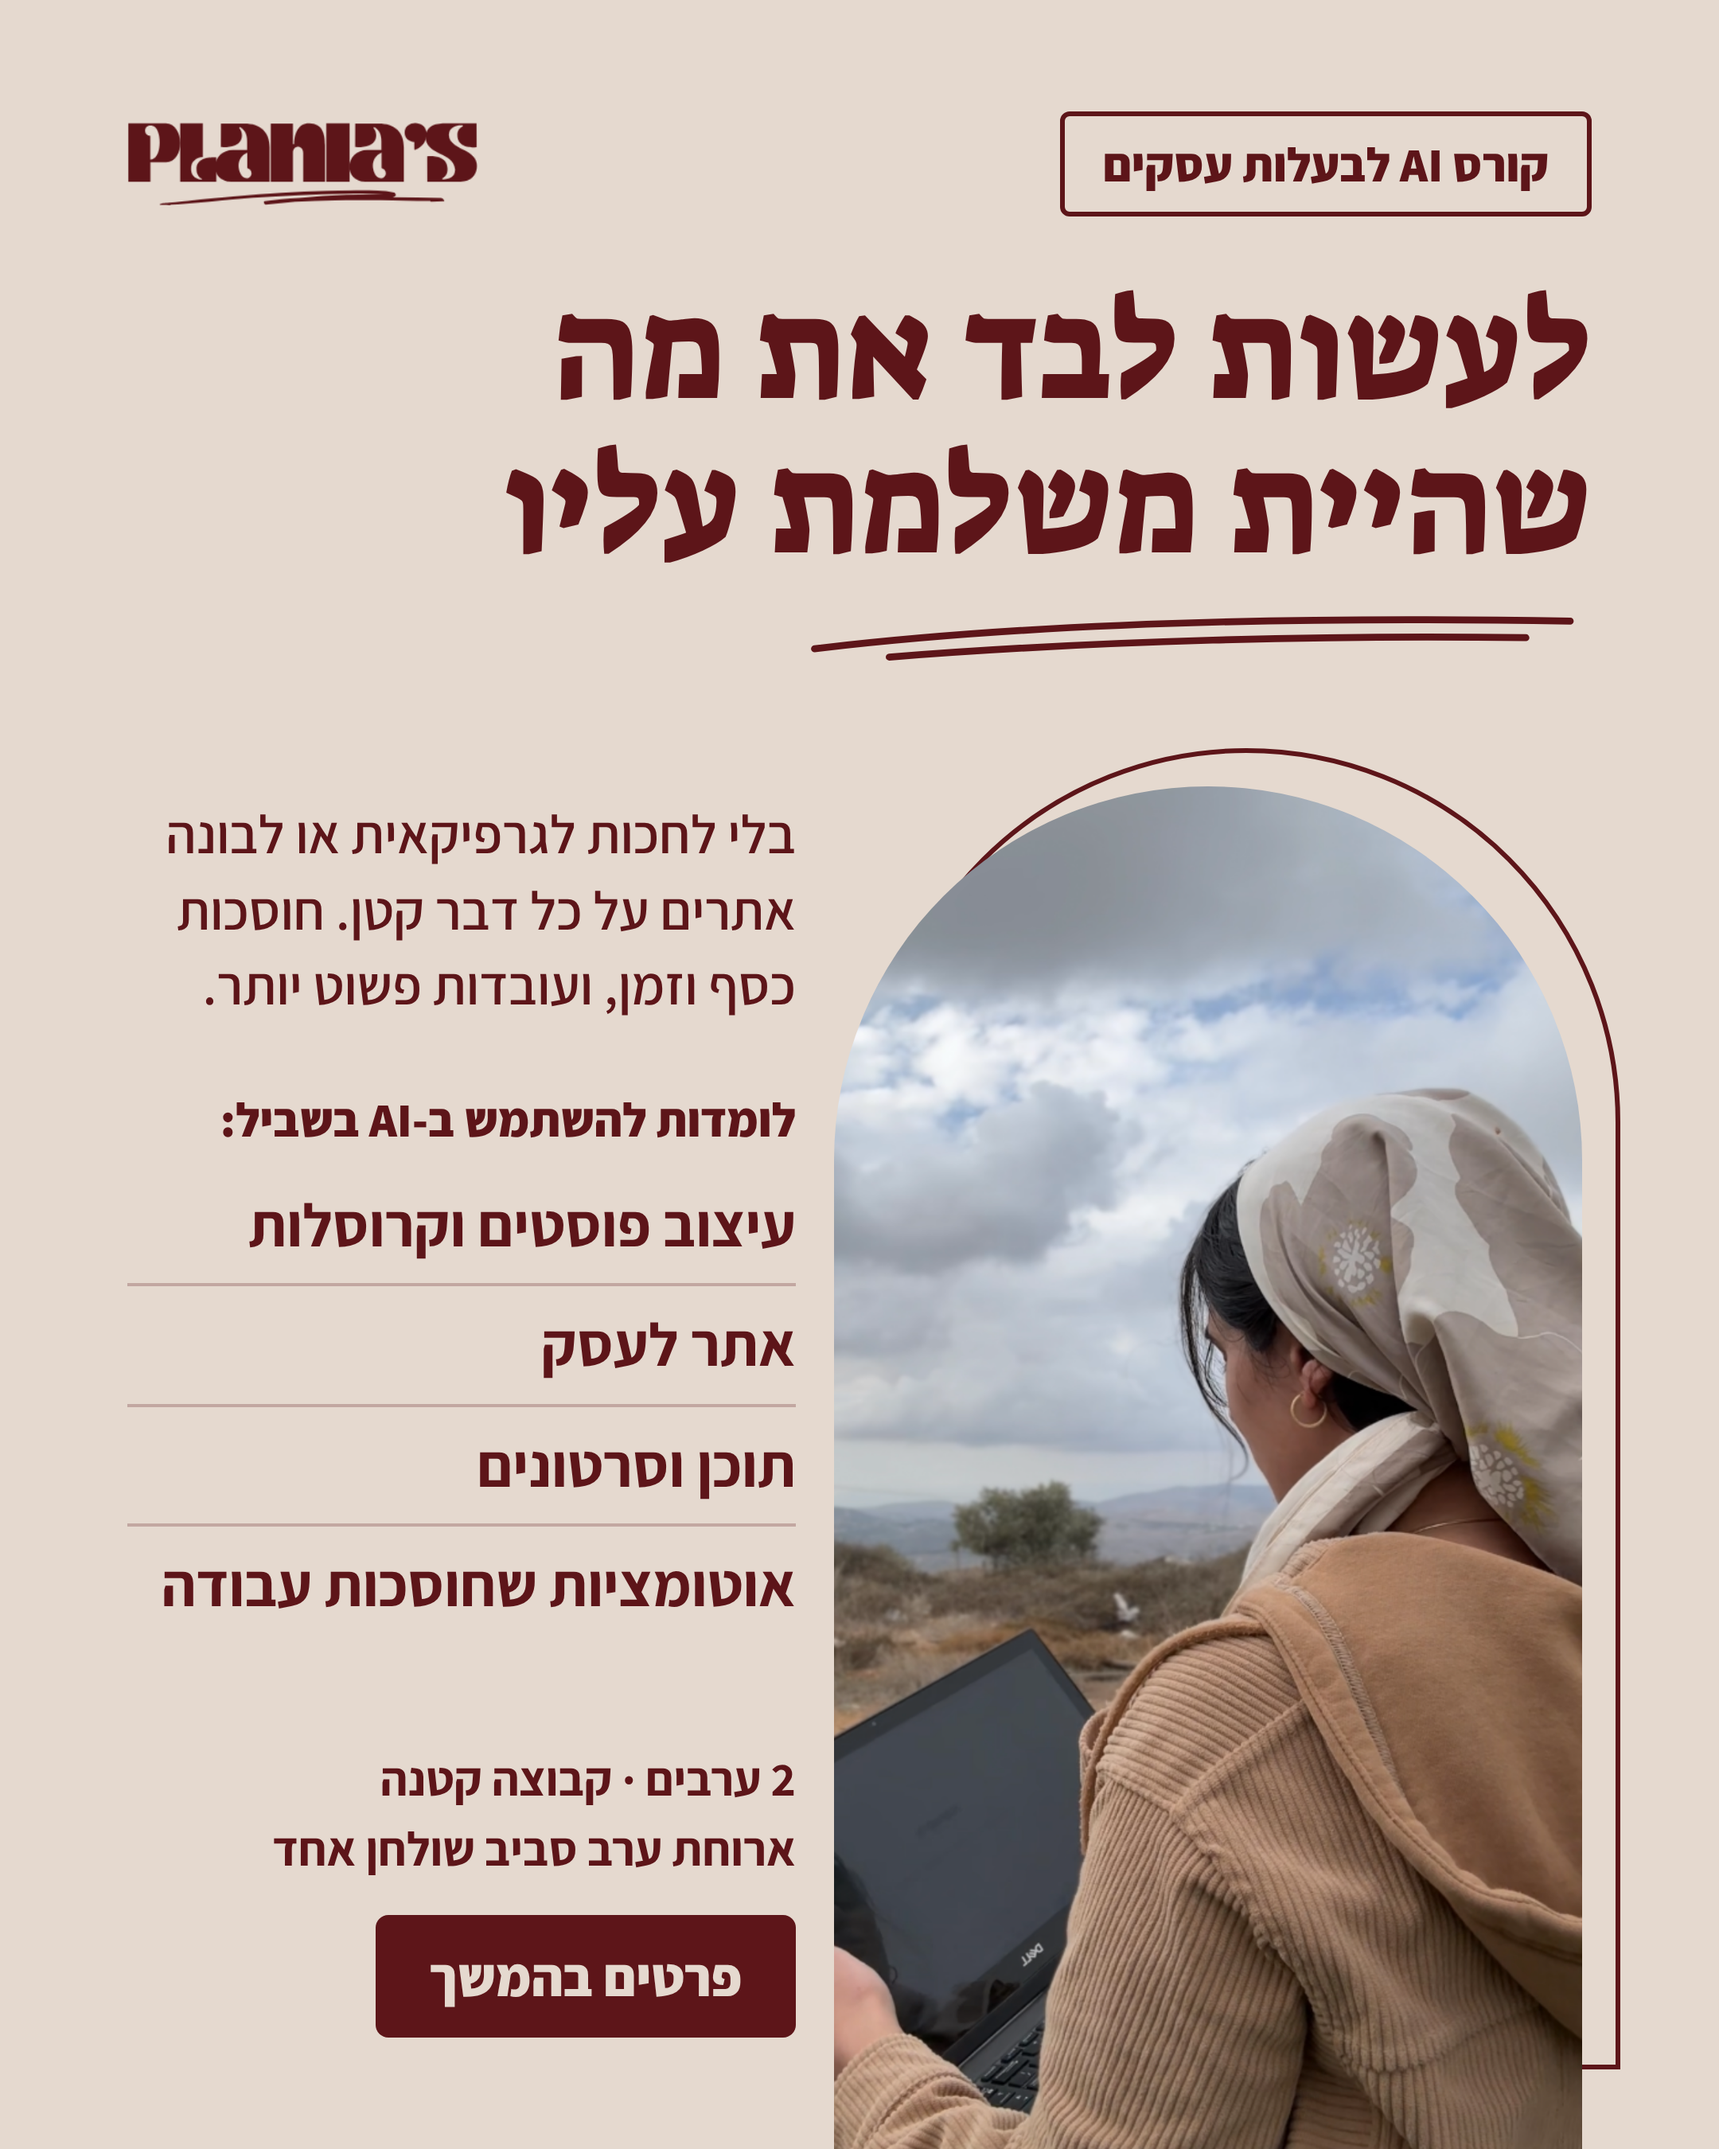
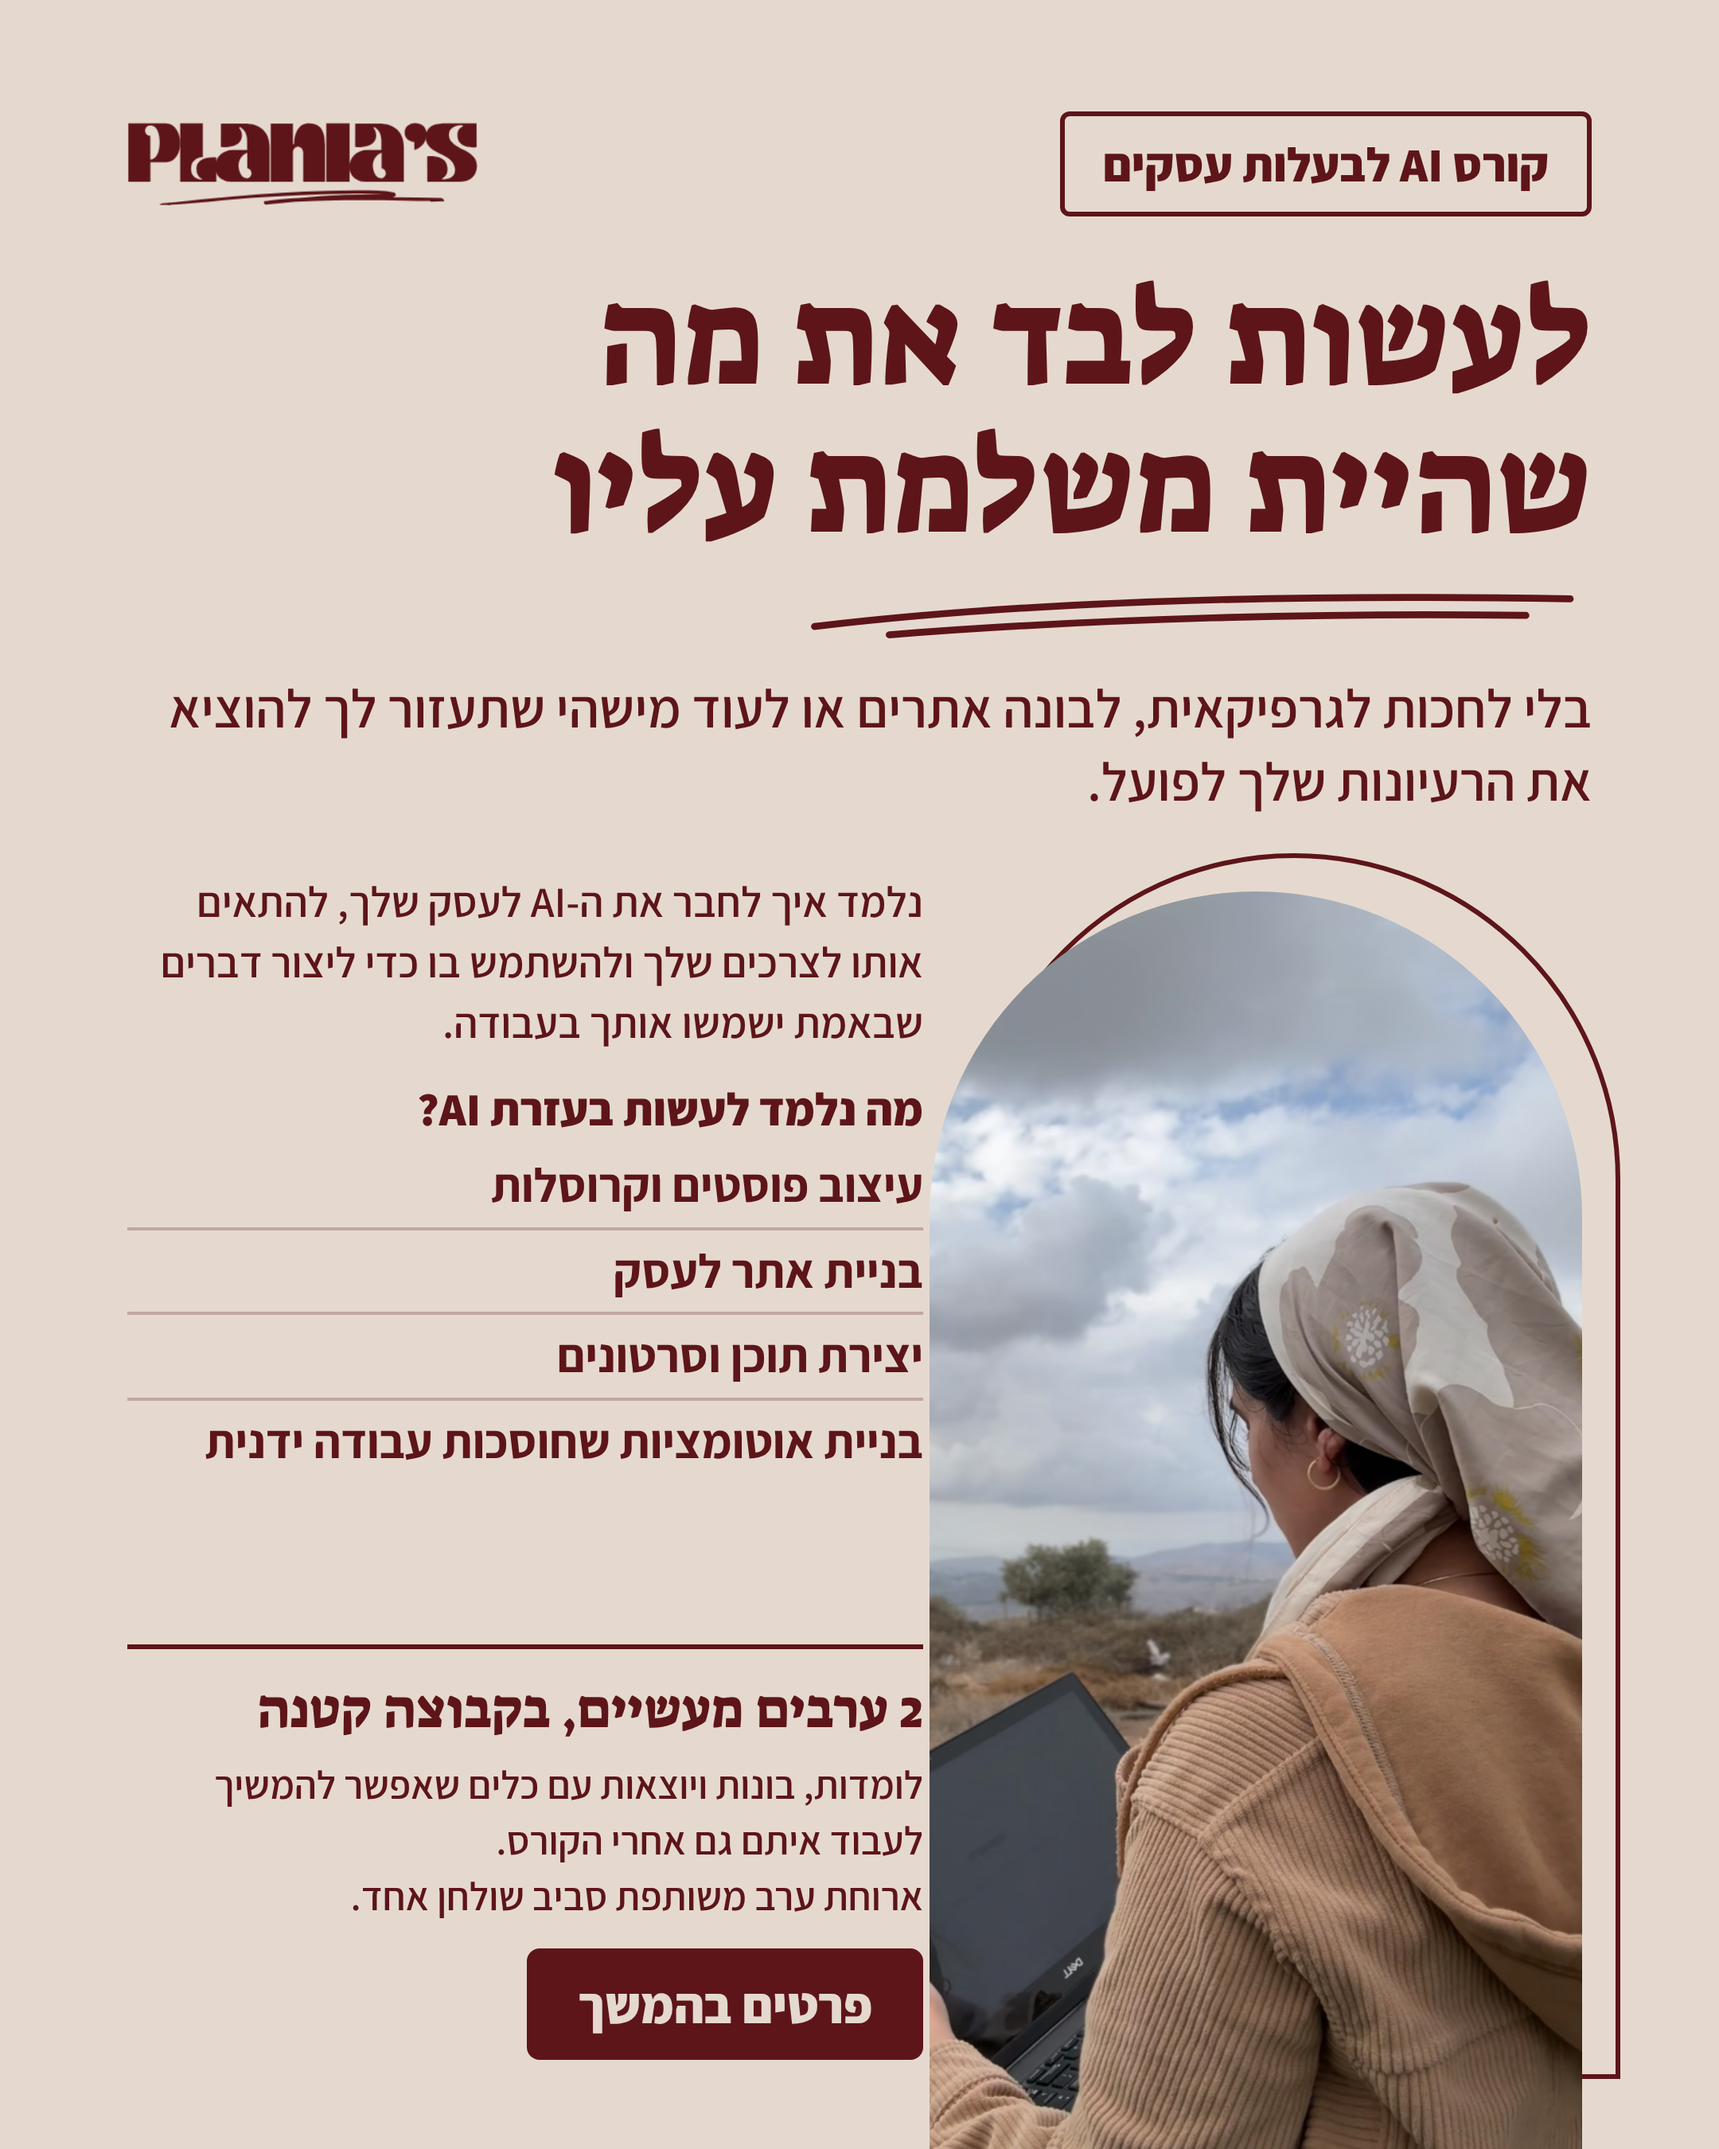
Flyer: update copy to the new text
Claude-Session: https://claude.ai/code/session_01FAztRn3s498VxUBgDg5pS8

Changed region(s): [[0.0931, 0.1244, 0.9616, 1.0]]

diff --git a/marketing/course-ad/flyer-photo.html b/marketing/course-ad/flyer-photo.html
@@ -12,19 +12,21 @@ body{font-family:'Assistant',sans-serif}
 .row{display:flex;justify-content:space-between;align-items:center}
 .tag{border:3px solid currentColor;padding:10px 24px;font-weight:800;font-size:30px;border-radius:6px}
 .logo{width:220px}
-h1{font-family:'Suez One',serif;font-weight:400;font-size:90px;line-height:1.08;margin-top:36px}
+h1{font-family:'Suez One',serif;font-weight:400;font-size:86px;line-height:1.08;margin-top:30px}
 .swoosh{display:block;width:500px;height:40px;margin-top:12px}
-.arch-line{position:absolute;right:62px;top:470px;width:470px;height:830px;border:3px solid var(--wine);border-radius:235px 235px 0 0}
-.arch{position:absolute;right:86px;top:494px;width:470px;height:856px;border-radius:235px 235px 0 0;overflow:hidden;background:url(hadarel-photo.png) 80% 78%/auto 116% no-repeat}
-.side{position:absolute;left:80px;top:500px;width:420px}
-.lead{font-size:34px;font-weight:600;line-height:1.4}
-.k{display:block;font-size:30px;font-weight:800;margin-top:40px}
-ul{list-style:none;margin-top:10px}
-li{font-size:38px;font-weight:700;line-height:1.25;padding:13px 0;border-bottom:2px solid rgba(93,21,25,.25)}
+.arch-line{position:absolute;right:62px;top:536px;width:410px;height:770px;border:3px solid var(--wine);border-radius:205px 205px 0 0}
+.arch{position:absolute;right:86px;top:560px;width:410px;height:790px;border-radius:205px 205px 0 0;overflow:hidden;background:url(hadarel-photo.png) 90% 78%/auto 114% no-repeat}
+.intro{font-size:34px;font-weight:600;line-height:1.35;margin-top:18px;max-width:900px}
+.side{position:absolute;left:80px;top:548px;width:500px}
+.lead{font-size:27px;font-weight:600;line-height:1.4}
+.k{display:block;font-size:29px;font-weight:800;margin-top:16px}
+ul{list-style:none;margin-top:4px}
+li{font-size:30px;font-weight:700;line-height:1.25;padding:7px 0;border-bottom:2px solid rgba(93,21,25,.25)}
 li:last-child{border:none}
-.foot{position:absolute;left:80px;bottom:70px;width:420px}
-.facts{font-size:30px;font-weight:700;line-height:1.45}
-.soon{display:inline-block;margin-top:20px;background:var(--wine);color:var(--cream);font-weight:800;font-size:34px;padding:16px 34px;border-radius:8px}
+.foot{position:absolute;left:80px;bottom:56px;width:500px;border-top:3px solid var(--wine);padding-top:18px}
+.fh{font-family:'Suez One',serif;font-size:34px;line-height:1.2}
+.ft{font-size:25px;font-weight:600;line-height:1.4;margin-top:8px}
+.soon{display:inline-block;margin-top:16px;background:var(--wine);color:var(--cream);font-weight:800;font-size:32px;padding:14px 32px;border-radius:8px}
 </style>
 </head>
 <body>
@@ -35,19 +37,21 @@ li:last-child{border:none}
     <div class="row"><span class="tag">קורס AI לבעלות עסקים</span><img class="logo" src="logo.png" alt="Plania's"></div>
     <h1>לעשות לבד את מה<br>שהיית משלמת עליו</h1>
     <svg class="swoosh" viewBox="0 0 560 46"><path d="M6 34 C140 18 320 10 552 14 M60 40 C210 28 380 24 520 26" fill="none" stroke="currentColor" stroke-width="5" stroke-linecap="round"/></svg>
+    <p class="intro">בלי לחכות לגרפיקאית, לבונה אתרים או לעוד מישהי שתעזור לך להוציא את הרעיונות שלך לפועל.</p>
   </div>
   <div class="side">
-    <p class="lead">בלי לחכות לגרפיקאית או לבונה אתרים על כל דבר קטן. חוסכות כסף וזמן, ועובדות פשוט יותר.</p>
-    <span class="k">לומדות להשתמש ב-AI בשביל:</span>
+    <p class="lead">נלמד איך לחבר את ה-AI לעסק שלך, להתאים אותו לצרכים שלך ולהשתמש בו כדי ליצור דברים שבאמת ישמשו אותך בעבודה.</p>
+    <span class="k">מה נלמד לעשות בעזרת AI?</span>
     <ul>
       <li>עיצוב פוסטים וקרוסלות</li>
-      <li>אתר לעסק</li>
-      <li>תוכן וסרטונים</li>
-      <li>אוטומציות שחוסכות עבודה</li>
+      <li>בניית אתר לעסק</li>
+      <li>יצירת תוכן וסרטונים</li>
+      <li>בניית אוטומציות שחוסכות עבודה ידנית</li>
     </ul>
   </div>
   <div class="foot">
-    <div class="facts">2 ערבים · קבוצה קטנה<br>ארוחת ערב סביב שולחן אחד</div>
+    <div class="fh">2 ערבים מעשיים, בקבוצה קטנה</div>
+    <p class="ft">לומדות, בונות ויוצאות עם כלים שאפשר להמשיך לעבוד איתם גם אחרי הקורס.<br>ארוחת ערב משותפת סביב שולחן אחד.</p>
     <span class="soon">פרטים בהמשך</span>
   </div>
 </section>
